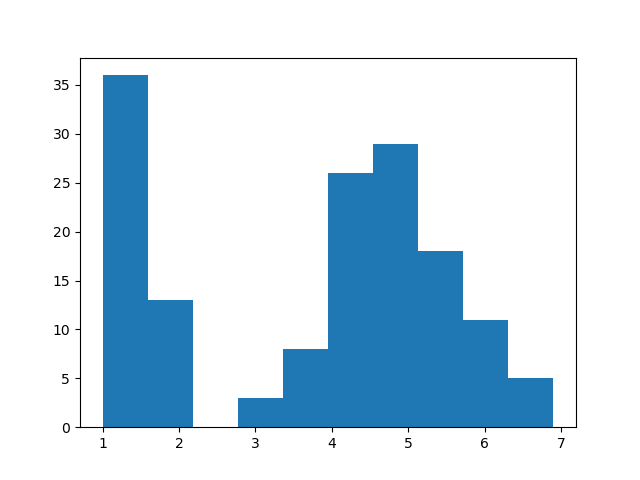
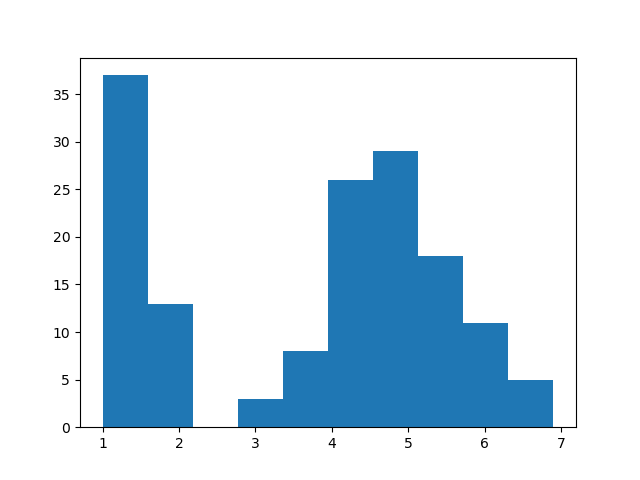
Additional summary output to text file added

diff --git a/analysis.py b/analysis.py
@@ -7,7 +7,7 @@ import pandas as pd
 import seaborn as sns
 
 # Read in the dataset
-df = pd.read_csv("iris.data",header=0, names=['SepalLengthCm', 'SepalWidthCm', 'PetalLengthCm', 'PetalWidthCm', 'Species'])
+df = pd.read_csv("iris.data",header=None, names=['SepalLengthCm', 'SepalWidthCm', 'PetalLengthCm', 'PetalWidthCm', 'Species'])
 
 # Histogram for Sepal Length
 plt.hist(df['SepalLengthCm'], bins=10)
@@ -29,20 +29,27 @@ plt.hist(df['PetalWidthCm'], bins=10)
 plt.savefig('petal_width_histogram.png')
 plt.close()
 
+# This section deals with outputting summary information to a text file.
 f = open('iris_variable_summary.txt', 'w')
-f.write('This file will contain information summarising variables in the Iris Dataset.\n')
+f.write('This file will contain information summarising variables in the Iris Dataset.\n\n')
+f.write('Below shows the head of the data file.\nThis includes the column headings and top 5 rows of data.\n\n')
 data_head = df.head()
 data_head_string = data_head.to_string()
 f.write(data_head_string)
+
+f.write('\n\nBelow shows the shape of the data:\n')
+data_shape = df.shape
+data_shape_string = str(data_shape)
+f.write(data_shape_string)
+f.write('\nThis tells us that there are 150 rows of data and 5 columns.\n\n')
+
+f.write('\nBelow gives some statistical information about the data in each column:\n\n')
+data_described = df.describe()
+data_described_string = data_described.to_string()
+f.write(data_described_string)
+
 f.close()
 
-
-
-# Print top 5 rows
-#print(df.head())
-
-# Outline the shape of the data
-#print (df.shape)
 
 #Information about the dataset 
 #print(df.info)
